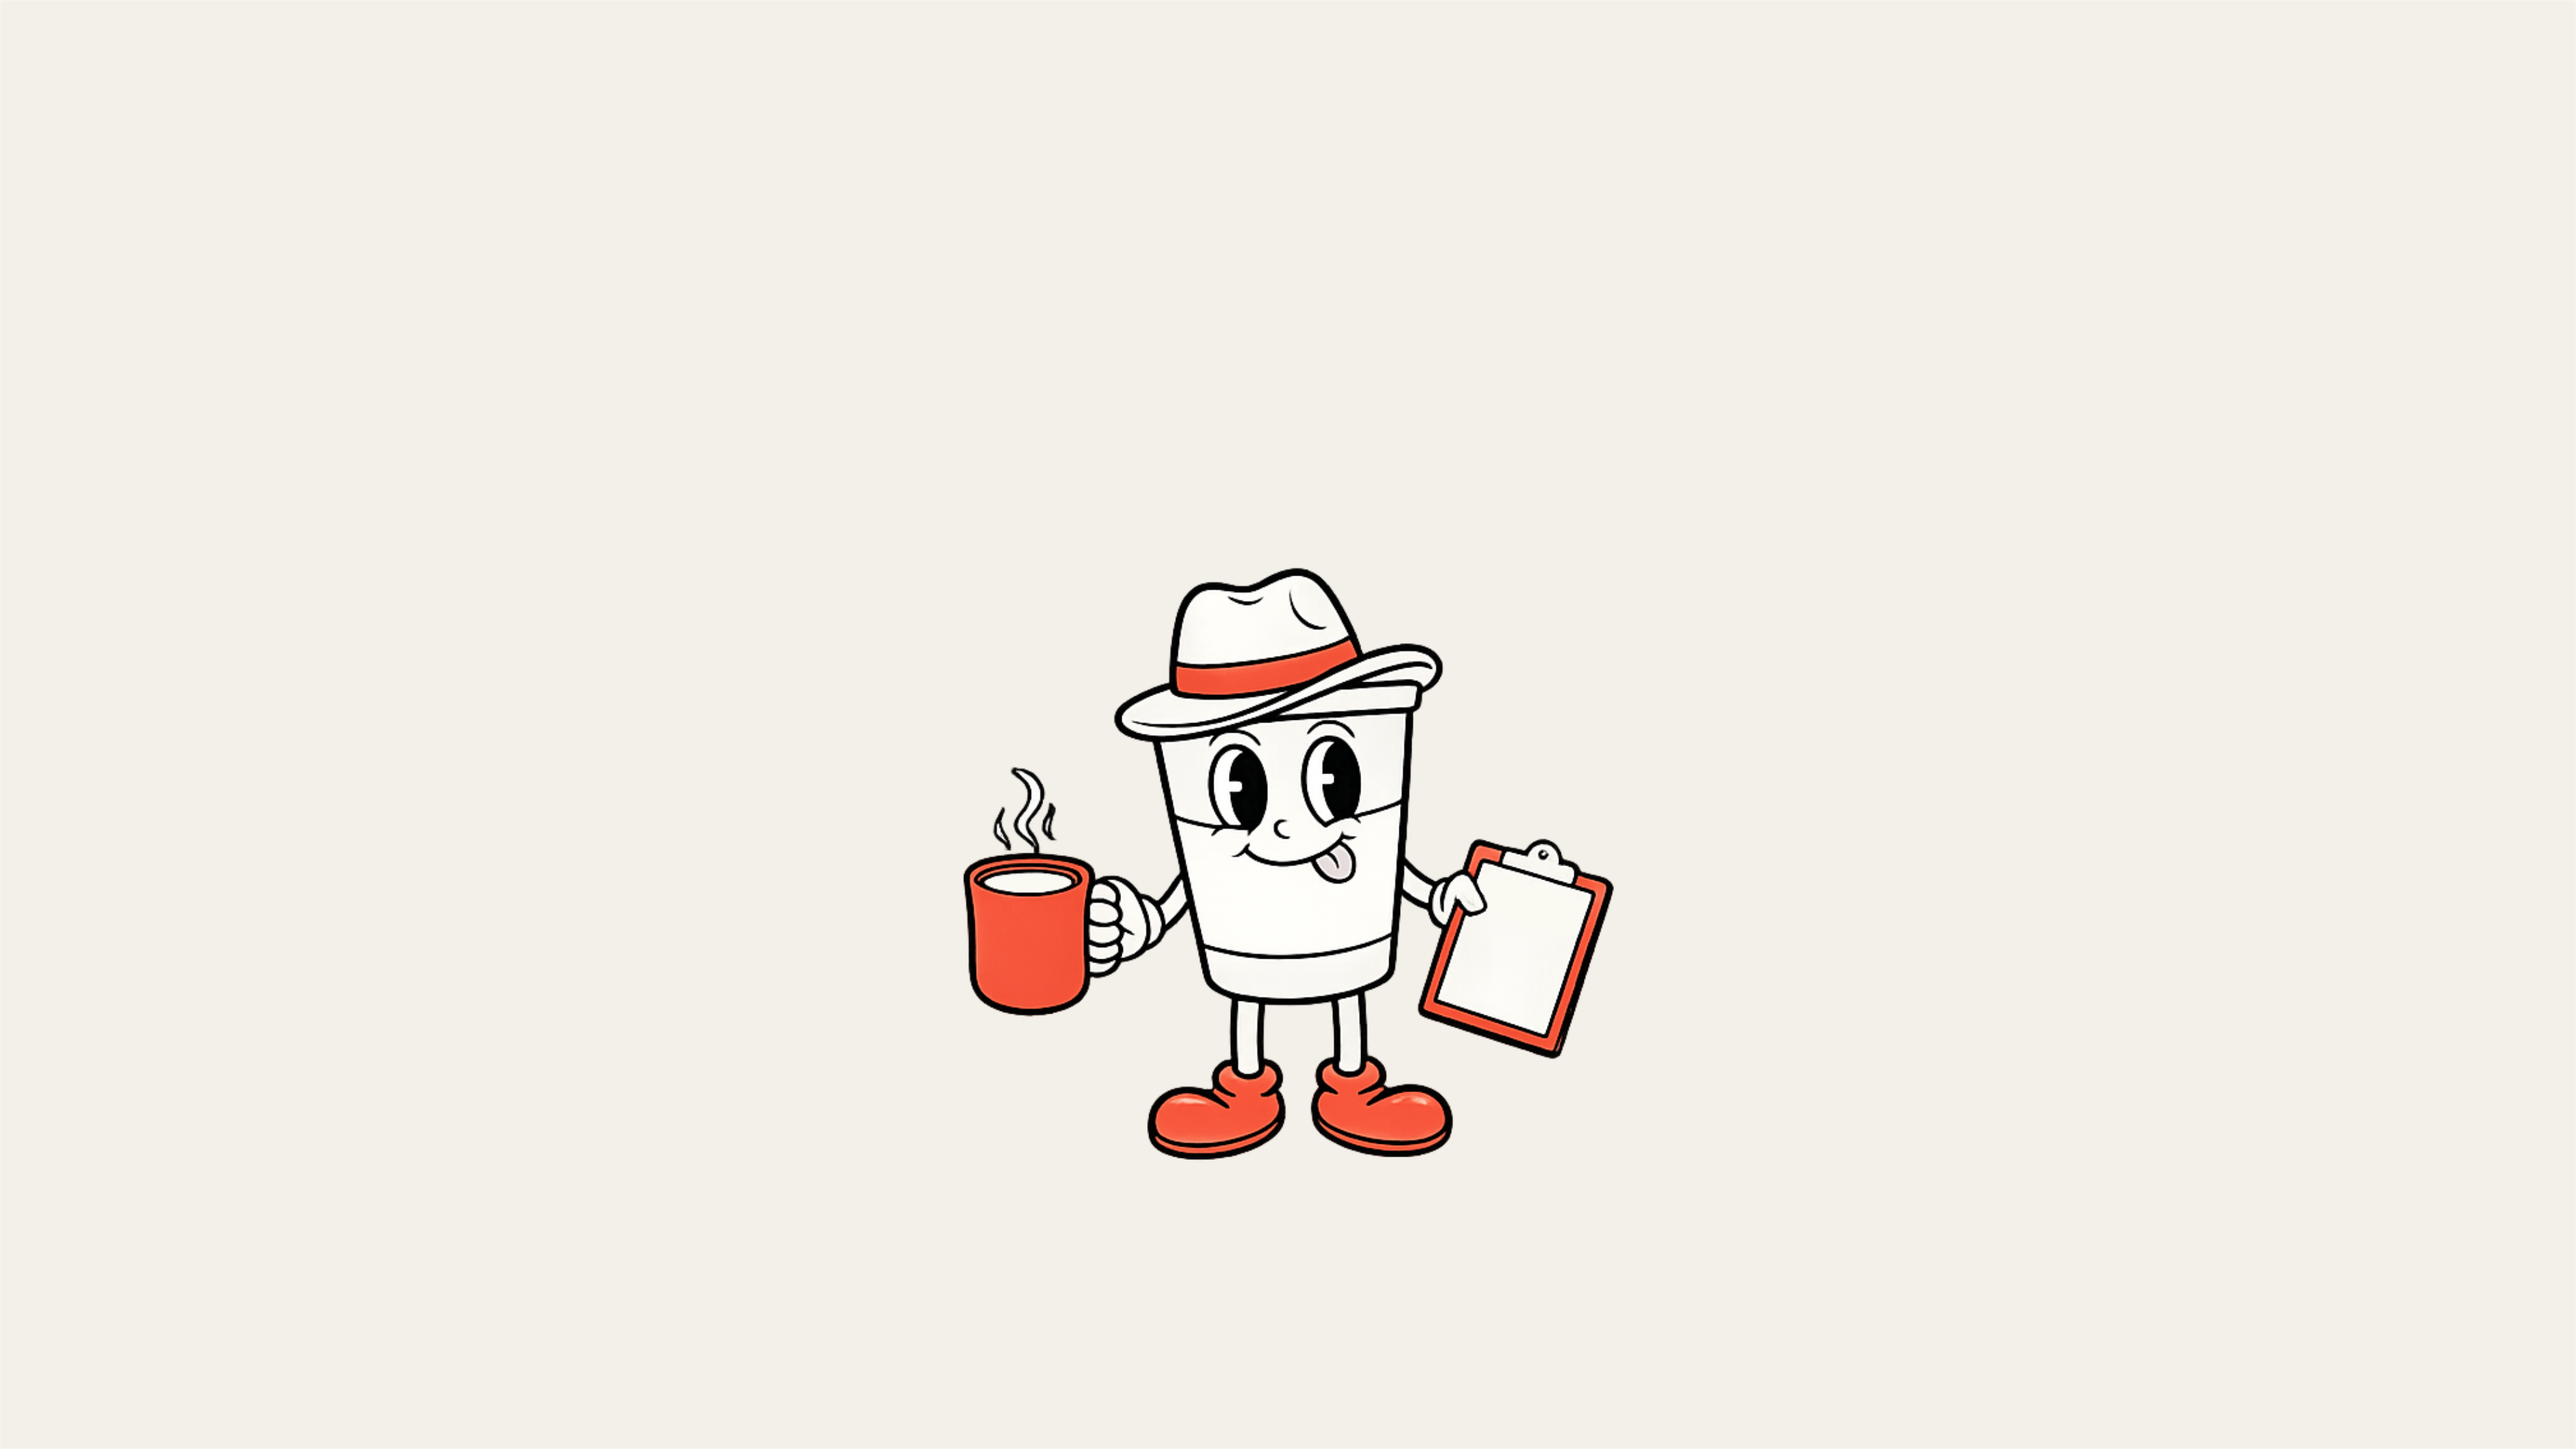
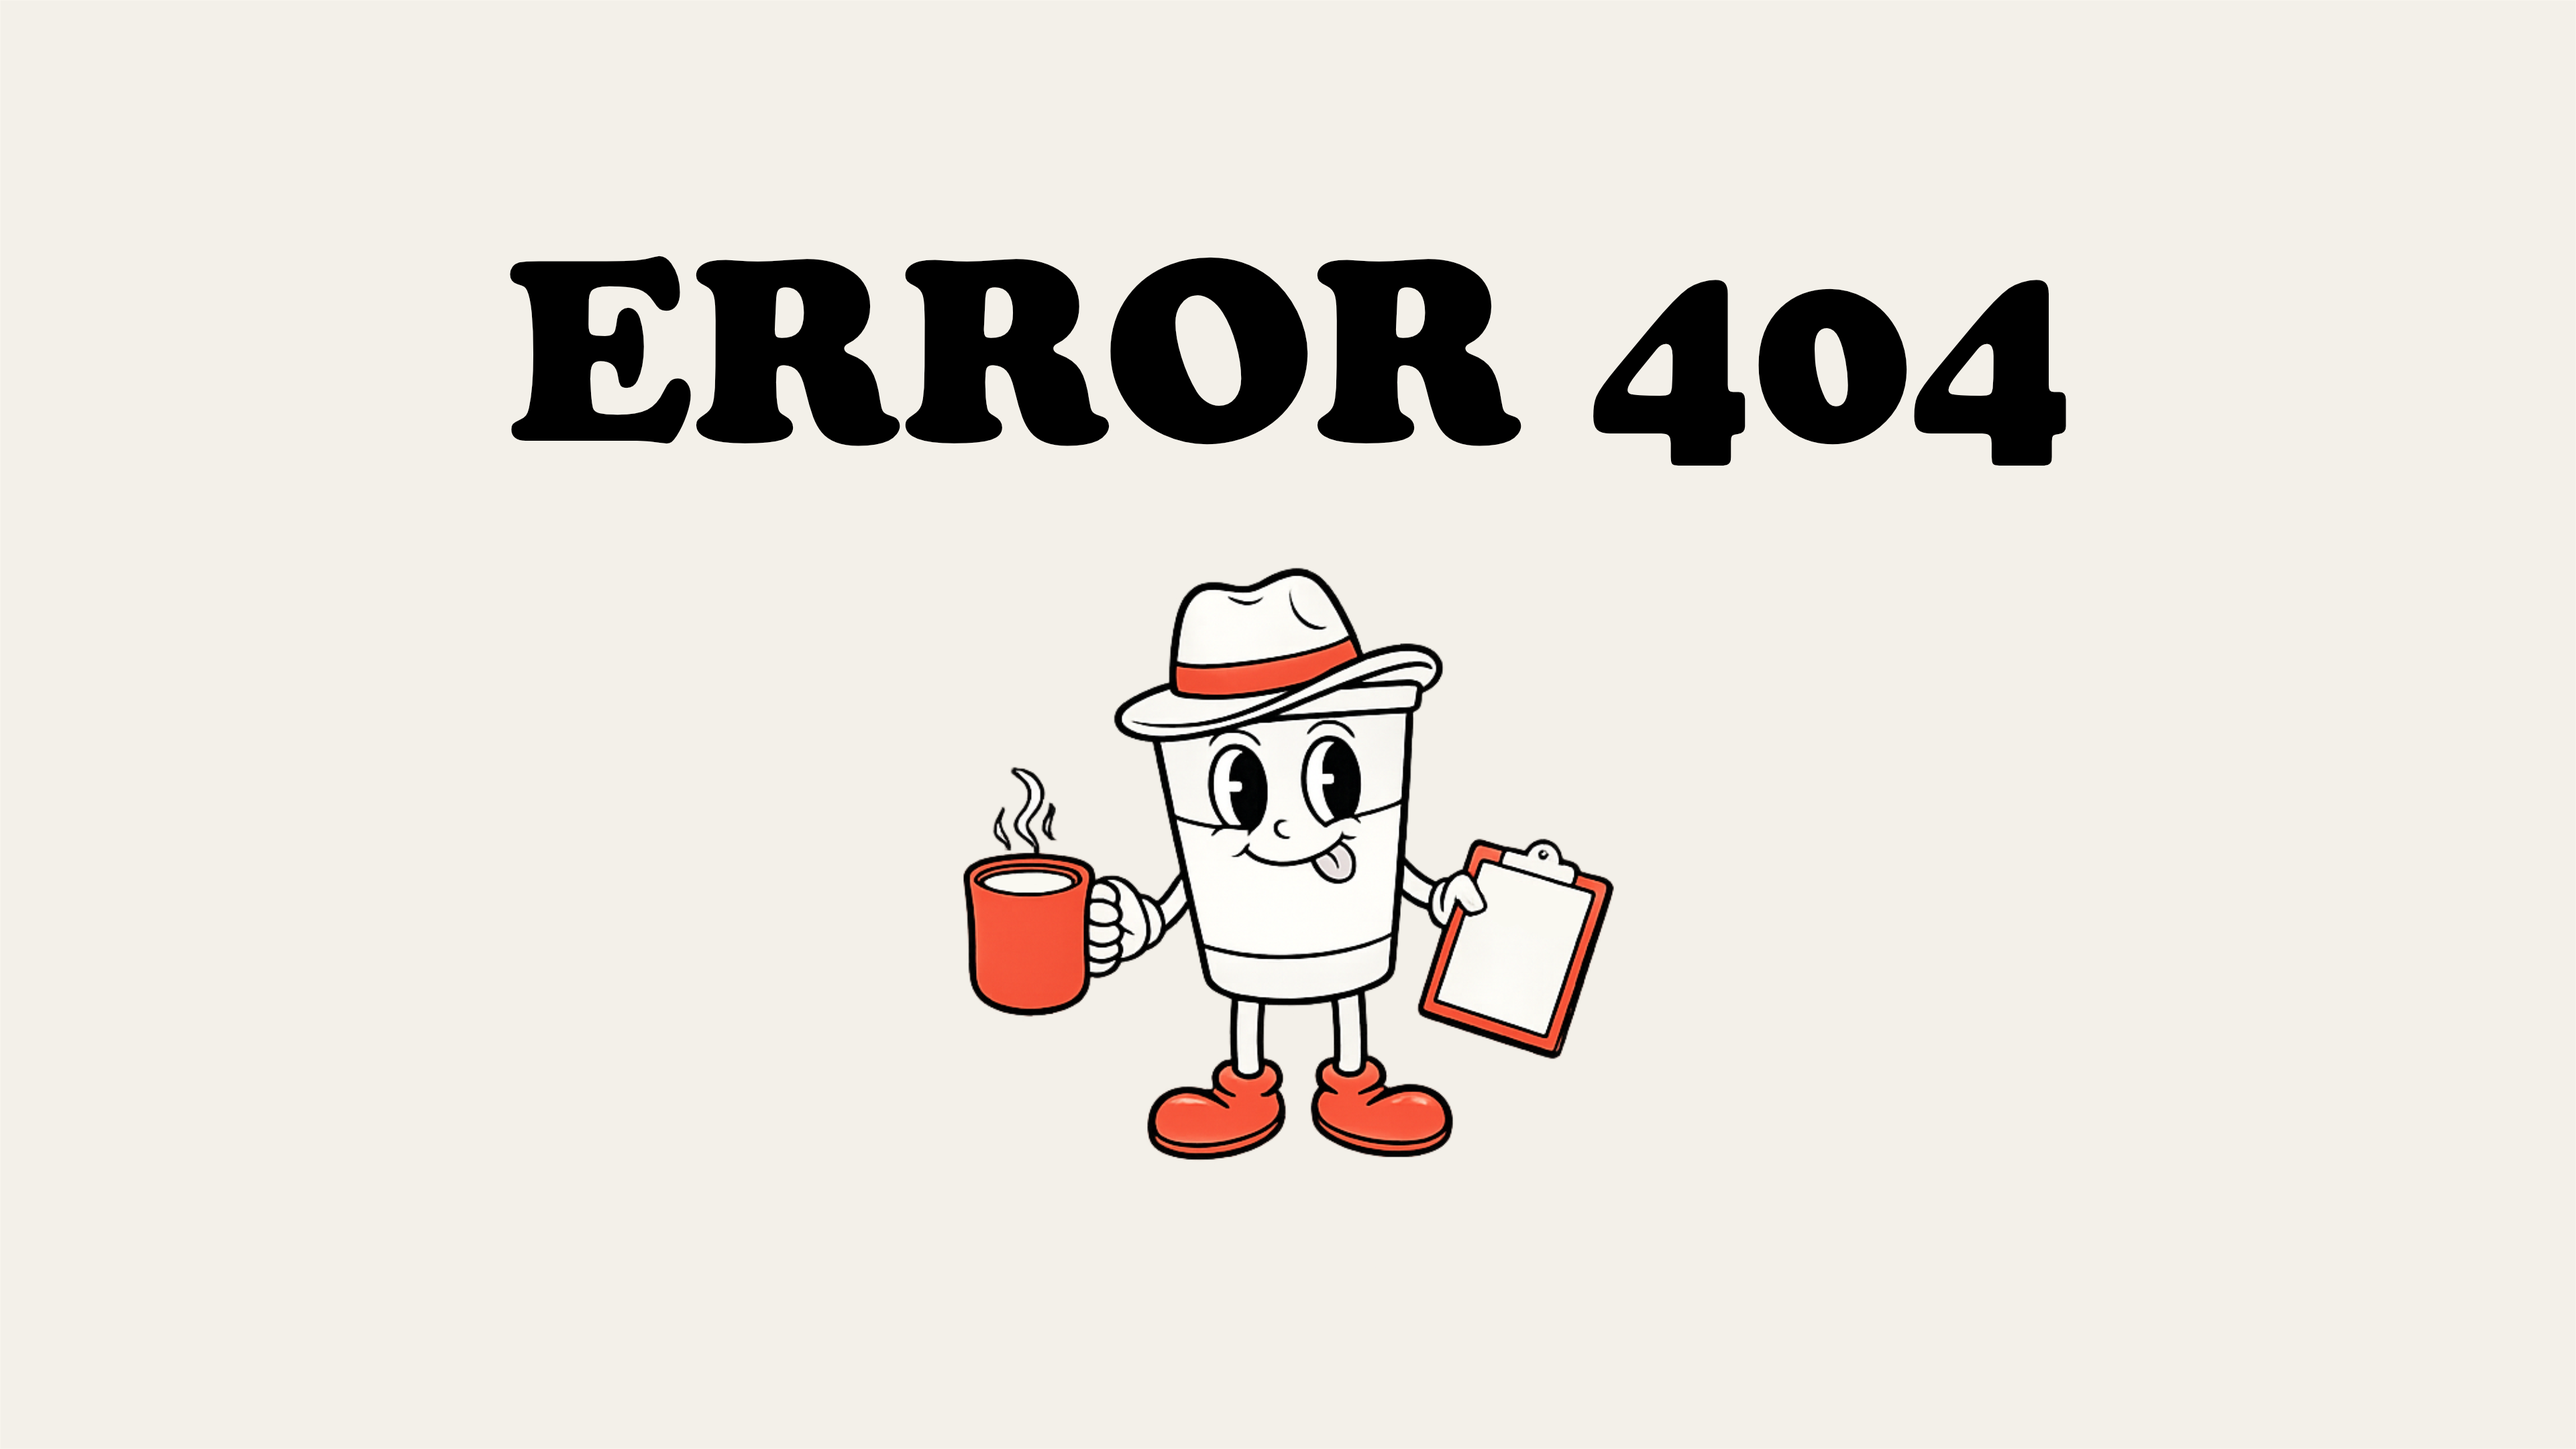
imagen 404

Changed region(s): [[0.1875, 0.1551, 0.8125, 0.3412]]

diff --git a/html/404.html b/html/404.html
@@ -24,9 +24,11 @@
       }
 
       .bg-image img {
-        max-width: 300px;
+        max-width: 400px;  /* antes 300px */
+        height: auto;      /* mantiene proporción */
         margin-bottom: 20px;
       }
+
 
       a {
         display: inline-block;
